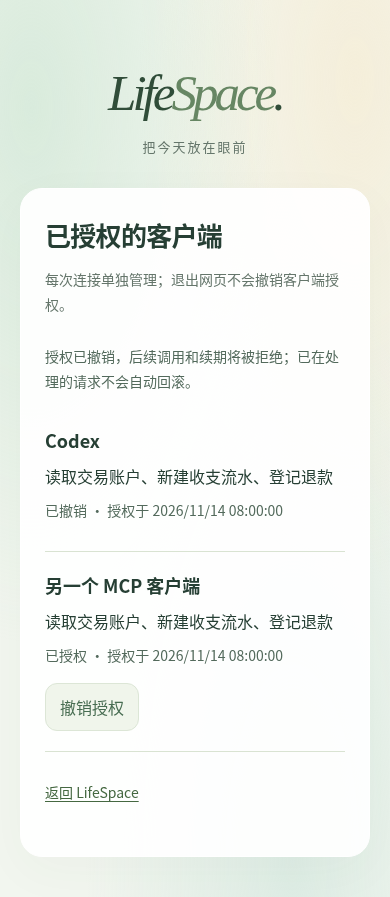
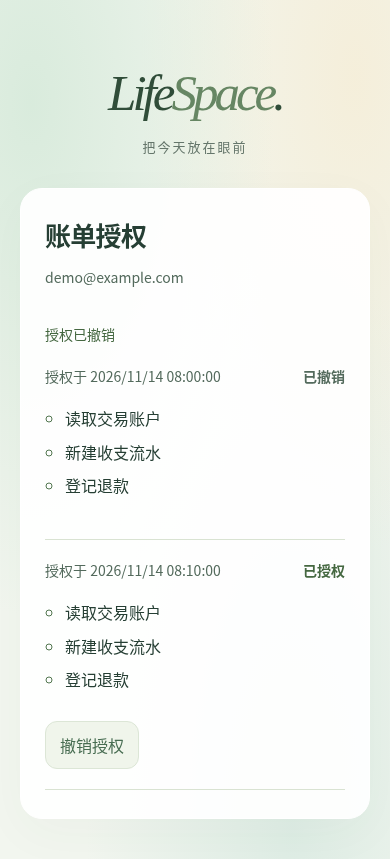
refactor: simplify OAuth grant management (#193)

diff --git a/tests/browser/mcp-oauth.spec.ts b/tests/browser/mcp-oauth.spec.ts
@@ -63,33 +63,38 @@ test('拒绝可独立提交；客户端资料不出现在授权表单', async ({
   expect(decision).toBe('deny')
 })
 
-test('授权管理展示独立连接，确认撤销并提供结果与在途边界', async ({ page }) => {
-  await page.setViewportSize({ width: 390, height: 844 })
+for (const width of [1440, 390]) test(`${width}px 授权管理以权限、时间和状态区分记录并确认撤销`, async ({ page }) => {
+  await page.setViewportSize({ width, height: 844 })
   const grant = { id: '00000000-0000-4000-8000-000000000002', clientId: 'https://client.example.invalid/metadata.json', clientName: 'Codex', scopes: mcpScopes, createdAt: '2026-11-14T00:00:00Z', expiresAt: '2099-01-01T00:00:00Z', revokedAt: null }
-  const second = { ...grant, id: '00000000-0000-4000-8000-000000000003', clientName: '另一个 MCP 客户端' }
+  const second = { ...grant, id: '00000000-0000-4000-8000-000000000003', clientName: '另一个 MCP 客户端', createdAt: '2026-11-14T00:10:00Z' }
   await page.route('**/api/oauth/grants', route => route.fulfill({ json: { grants: [grant, second], nextCursor: null } }))
   let revoked = ''
   await page.route('**/api/oauth/grants/revoke', route => { revoked = route.request().postDataJSON().id; return route.fulfill({ json: { revoked: true } }) })
   await page.goto('/oauth/grants')
-  await expect(page.getByRole('heading', { name: '已授权的客户端' })).toBeVisible()
-  const revokeFirst = page.getByRole('button', { name: /^撤销 Codex / })
+  await expect(page.getByRole('heading', { name: '账单授权' })).toBeVisible()
+  const panel = page.locator('.mcp-authorization')
+  await expect(panel).not.toContainText('Codex')
+  await expect(panel).not.toContainText('另一个 MCP 客户端')
+  await expect(panel).not.toContainText('client.example.invalid')
+  await expect(panel.locator('a')).toHaveCount(0)
+  const records = page.locator('.mcp-grants > li')
+  const revokeFirst = records.nth(0).getByRole('button', { name: /^撤销授权/ })
   await revokeFirst.click()
-  await expect(page.getByText('此连接需要重新征得你的同意', { exact: false })).toBeVisible()
   await expect(page.getByRole('button', { name: '确认撤销' })).toBeFocused()
   await page.getByRole('button', { name: '保留授权' }).click()
   await expect(revokeFirst).toBeFocused()
   await page.keyboard.press('Enter')
   await expect(page.getByRole('button', { name: '确认撤销' })).toBeFocused()
   await page.getByRole('button', { name: '确认撤销' }).click()
-  await expect(page.getByRole('status')).toContainText('后续调用和续期将被拒绝')
+  await expect(page.getByRole('status')).toContainText('授权已撤销')
   await expect(page.getByRole('status')).toBeFocused()
   expect(revoked).toBe(grant.id)
   await expect(revokeFirst).toHaveCount(0)
-  const revokeSecond = page.getByRole('button', { name: /^撤销 另一个 MCP 客户端 / })
+  const revokeSecond = records.nth(1).getByRole('button', { name: /^撤销授权/ })
   await revokeSecond.click()
   await page.getByRole('button', { name: '保留授权' }).click()
   await expect(revokeSecond).toBeFocused()
-  await page.screenshot({ path: '.cache/mcp-grants-mobile.png', fullPage: true })
+  await page.screenshot({ path: `.cache/mcp-grants-${width}.png`, fullPage: true })
   expect(await page.evaluate(() => document.documentElement.scrollWidth <= innerWidth)).toBe(true)
 })
 
@@ -100,12 +105,12 @@ test('授权管理空状态、加载失败和撤销失败均可恢复', async ({
   await expect(page.getByRole('alert')).toContainText('暂时无法读取授权')
   failed = false
   await page.getByRole('button', { name: '刷新授权' }).click()
-  await expect(page.getByText('还没有授权客户端', { exact: false })).toBeVisible()
+  await expect(page.getByText('暂无账单授权', { exact: true })).toBeVisible()
   await page.route('**/api/oauth/grants', route => route.fulfill({ json: { grants: [{ id: '00000000-0000-4000-8000-000000000002', clientId: 'client-test', clientName: 'Codex', scopes: [mcpScopes[0]], createdAt: '2026-11-14T00:00:00Z', expiresAt: '2099-01-01T00:00:00Z', revokedAt: null }], nextCursor: null } }))
   let revokeFails = true
   await page.route('**/api/oauth/grants/revoke', route => route.fulfill(revokeFails ? { status: 503, json: {} } : { json: { revoked: true } }))
   await page.reload()
-  await page.getByRole('button', { name: /^撤销 / }).click()
+  await page.getByRole('button', { name: /^撤销授权/ }).click()
   await page.getByRole('button', { name: '确认撤销' }).click()
   await expect(page.getByRole('alert')).toContainText('撤销结果未确认')
   await expect(page.getByRole('alert')).toBeFocused()

diff --git a/src/auth/McpAuthorization.tsx b/src/auth/McpAuthorization.tsx
@@ -100,7 +100,7 @@ export function McpAuthorization() {
 }
 
 export function McpGrants() {
-  const { ownerId, signal } = useVerifiedIdentity()
+  const { ownerId, email, signal } = useVerifiedIdentity()
   const [grants, setGrants] = useState<z.infer<typeof grantsSchema>['grants']>()
   const [error, setError] = useState('')
   const [message, setMessage] = useState('')
@@ -154,34 +154,35 @@ export function McpGrants() {
       if (!signal.aborted) {
         setGrants(current => current?.map(grant => grant.id === id ? { ...grant, revokedAt: new Date().toISOString() } : grant))
         setConfirming(undefined)
-        setMessage('授权已撤销，后续调用和续期将被拒绝；已在处理的请求不会自动回滚。')
+        setMessage('授权已撤销')
       }
     } catch { if (!signal.aborted) setError('撤销结果未确认，请刷新核对后重试。') }
     finally { pending.current = false; setBusy(false) }
   }
   return <AuthLayout title="客户端授权管理">
     <div className="mcp-authorization">
-      <h1 id="page-title" tabIndex={-1}>已授权的客户端</h1>
-      <p className="auth-subtitle">每次连接单独管理；退出网页不会撤销客户端授权。</p>
+      <h1 id="page-title" tabIndex={-1}>账单授权</h1>
+      <p className="mcp-account">{email}</p>
       {error && <p className="auth-banner" role="alert" tabIndex={-1} ref={errorElement}>{error} <button type="button" className="auth-link" onClick={() => setRevision(value => value + 1)}>刷新授权</button></p>}
-      <p role="status" className="mcp-note" tabIndex={-1} ref={resultElement}>{message}</p>
+      <p role="status" className="mcp-grant-result" tabIndex={-1} ref={resultElement}>{message}</p>
       {!grants && !error && <p>正在读取授权…</p>}
-      {grants?.length === 0 && <p className="mcp-empty">还没有授权客户端。从 MCP 客户端连接 LifeSpace 后，可在这里管理。</p>}
-      {grants && <ul className="mcp-grants">{grants.map(grant => {
+      {grants?.length === 0 && <p className="mcp-empty">暂无账单授权</p>}
+      {grants && <ul className="mcp-grants" role="list">{grants.map(grant => {
         const active = !grant.revokedAt && Date.parse(grant.expiresAt) > Date.now()
+        const created = new Date(grant.createdAt).toLocaleString('zh-CN')
         return <li key={grant.id}>
-          <h2>{grant.clientName || '未命名客户端'}</h2>
-          <p>{grant.scopes.map(scope => mcpScopeLabels[scope].name).join('、')}</p>
-          <p className="mcp-note">{grant.revokedAt ? '已撤销' : !active ? '已到期' : '已授权'} · 授权于 {new Date(grant.createdAt).toLocaleString('zh-CN')}</p>
+          <div className="mcp-grant-header">
+            <span className="mcp-note">授权于 <time dateTime={grant.createdAt}>{created}</time></span>
+            <span className={`mcp-grant-state${active ? ' is-active' : ''}`}>{grant.revokedAt ? '已撤销' : !active ? '已到期' : '已授权'}</span>
+          </div>
+          <ul className="mcp-grant-scopes" id={`scopes-${grant.id}`}>{grant.scopes.map(scope => <li key={scope}>{mcpScopeLabels[scope].name}</li>)}</ul>
           {active && (confirming === grant.id ? <div className="mcp-revoke-confirm">
-            <p>撤销后，此连接需要重新征得你的同意。</p>
             <button className="auth-secondary" type="button" disabled={busy} ref={confirmButton} onClick={() => void revoke(grant.id)}>{busy ? '正在撤销…' : '确认撤销'}</button>
             <button className="auth-link" type="button" disabled={busy} onClick={() => setConfirming(undefined)}>保留授权</button>
-          </div> : <button className="auth-secondary" type="button" disabled={busy} ref={node => { if (node) revokeButtons.current.set(grant.id, node); else revokeButtons.current.delete(grant.id) }} aria-label={`撤销 ${grant.clientName || '未命名客户端'} 于 ${new Date(grant.createdAt).toLocaleString('zh-CN')} 的授权`} onClick={() => setConfirming(grant.id)}>撤销授权</button>)}
+          </div> : <button className="auth-secondary" type="button" disabled={busy} ref={node => { if (node) revokeButtons.current.set(grant.id, node); else revokeButtons.current.delete(grant.id) }} aria-label={`撤销授权，${created}`} aria-describedby={`scopes-${grant.id}`} onClick={() => setConfirming(grant.id)}>撤销授权</button>)}
         </li>
       })}</ul>}
       {cursor && <button type="button" className="auth-secondary" disabled={busy} onClick={() => void loadMore()}>加载更早的授权</button>}
-      <p className="mcp-footer"><a href="/">返回 LifeSpace</a></p>
     </div>
   </AuthLayout>
 }

diff --git a/src/auth/mcp-authorization.css b/src/auth/mcp-authorization.css
@@ -1,5 +1,4 @@
 .mcp-authorization { overflow-wrap:anywhere; }
-.mcp-authorization h2 { font-size:1.125rem;line-height:1.5;margin:1.75rem 0 .5rem; }
 .mcp-authorization p { line-height:1.75; }
 .mcp-note { color:#536a5c;font-size:.875rem; }
 .mcp-account { color:#536a5c;font-size:.875rem;margin-block:.75rem 2rem; }
@@ -15,13 +14,18 @@
 .mcp-permissions:disabled label { cursor:default;opacity:.65; }
 .mcp-selection { display:flex;flex-wrap:wrap;justify-content:space-between;gap:.5rem;color:#536a5c;font-size:.875rem;margin-block:0 1.25rem; }
 .mcp-deny { display:block;inline-size:100%;min-block-size:3rem;margin-block-start:.5rem;font-size:.875rem; }
-.mcp-footer { margin-block:1.75rem 0;font-size:.875rem; }
-.mcp-footer a { color:#456841;display:inline-block;min-block-size:2rem;text-underline-offset:.2em; }
 .mcp-grants { margin:0;padding:0;list-style:none; }
-.mcp-grants li { padding-block:1.25rem;border-block-end:1px solid #d9e3d2; }
-.mcp-grants h2 { margin-block:0 .5rem; }
-.mcp-grants p { margin-block:.5rem; }
+.mcp-grants>li { padding-block:1.25rem;border-block-end:1px solid #d9e3d2; }
+.mcp-grants>li:first-child { padding-block-start:0; }
+.mcp-grant-header { display:flex;flex-wrap:wrap;justify-content:space-between;align-items:baseline;gap:.5rem; }
+.mcp-grant-state { color:#536a5c;font-size:.875rem;font-weight:600; }
+.mcp-grant-state.is-active { color:#456841; }
+.mcp-grant-scopes { padding-inline-start:1.25rem;margin-block:1rem; }
+.mcp-grant-scopes li { padding-block:.25rem;line-height:1.6; }
+.mcp-grant-scopes li::marker { color:#52764f; }
+.mcp-grant-result { color:#456841;font-size:.875rem;margin-block:0 1.25rem; }
+.mcp-grant-result:empty { margin:0; }
 .mcp-grants .auth-secondary { width:auto;min-block-size:3rem;margin-block-start:.5rem; }
 .mcp-revoke-confirm .auth-link { margin-inline-start:1rem;min-block-size:3rem; }
 .mcp-empty { padding-block:1.25rem; }
-@media (max-width:680px) { .mcp-authorization h1 { text-wrap:balance; }.mcp-footer a { min-block-size:3rem; } }
+@media (max-width:680px) { .mcp-authorization h1 { text-wrap:balance; } }

diff --git a/docs/qa-mcp-oauth.md b/docs/qa-mcp-oauth.md
@@ -26,10 +26,11 @@
 
 本次是既有认证界面的新增状态，沿用 `AuthLayout`、字体、配色、控件和响应式规则，未改原登录、标题、导航及账单页面。架构 SVG 并非 UI 原型。没有新增视觉风格或修改 DESIGN.md；已有 PRODUCT.md 的历史账单描述不作为此次业务需求。截图由本分支 Playwright 用合成用户/客户端生成，桌面/手机授权页展示用户选择写入权限后的状态。
 
-用户明确要求删除整个客户端信息区块，包括名称、域名/链接、回调地址和说明。当前授权页只保留账户、三项权限、选中数量、简短有效期和授权/拒绝操作，管理页移除原始客户端 URL。权限行以原生复选框、可点击标签及选中背景引导，按钮直接说明“授权所选权限”；说明与控件名称分开关联。使用 Modern Web Guidance 的 forms、checkbox、accessibility 指南及 impeccable distill/polish 核对；授权、原登录和共享外围布局共 39 项浏览器正常退出通过，类型/构建通过，detector 返回 `[]`，桌面/手机截图已同步并看图。预览和截图仍使用合成数据，真实客户端互操作及用户界面验收仍待完成。
+用户明确要求删除整个客户端信息区块，包括名称、域名/链接、回调地址和说明。当前授权页只保留账户、三项权限、选中数量、简短有效期和授权/拒绝操作。管理页同步删除客户端名称、原始 URL、说明段落和页脚链接，以授权时间、权限列表、状态和撤销/保留按钮组织记录；成功反馈仅为“授权已撤销”。权限行以原生复选框、可点击标签及选中背景引导，按钮直接说明“授权所选权限”；说明与控件名称分开关联。使用 Modern Web Guidance 的 forms、checkbox、accessibility 指南及 impeccable distill/polish 核对；首轮精简的授权、原登录和共享外围布局共 39 项浏览器正常退出通过，管理页补齐桌面/手机后相关 8 项浏览器通过，类型/构建通过，detector 返回 `[]`，截图已同步并看图。预览和截图仍使用合成数据，真实客户端互操作及用户界面验收仍待完成。
 
 - [桌面授权页](design/mcp-oauth-consent-desktop.png)
 - [手机授权页](design/mcp-oauth-consent-mobile.png)
+- [桌面授权管理撤销后](design/mcp-oauth-grants-desktop.png)
 - [手机授权管理撤销后](design/mcp-oauth-grants-mobile.png)
 
 ## 真实平台与待验收

diff --git a/docs/mcp-oauth-operations.md b/docs/mcp-oauth-operations.md
@@ -4,7 +4,7 @@
 
 ## 客户端与用户
 
-标准地址为 `https://lifespace.onepeace.cc.cd/api/agent/mcp`。无凭据请求返回 401，`WWW-Authenticate` 指向 `/.well-known/oauth-protected-resource/api/agent/mcp`；资源 metadata 指向同源 `/.well-known/oauth-authorization-server`。客户端应用已有预注册信息时优先使用；其次可通过 HTTPS Client ID Metadata Document 识别，文档 URL、redirect URI、客户端鉴权由官方库验证。按用户确认的界面范围，同意页聚焦当前账户、权限选择和授权/拒绝操作，移除客户端名称/域名区块、回调地址及其说明；服务端客户端识别和回调校验仍执行。授权管理以名称和授权时间区分连接，不显示原始客户端 URL。
+标准地址为 `https://lifespace.onepeace.cc.cd/api/agent/mcp`。无凭据请求返回 401，`WWW-Authenticate` 指向 `/.well-known/oauth-protected-resource/api/agent/mcp`；资源 metadata 指向同源 `/.well-known/oauth-authorization-server`。客户端应用已有预注册信息时优先使用；其次可通过 HTTPS Client ID Metadata Document 识别，文档 URL、redirect URI、客户端鉴权由官方库验证。按用户确认的界面范围，同意页聚焦当前账户、权限选择和授权/拒绝操作，移除客户端名称/域名区块、回调地址及其说明；服务端客户端识别和回调校验仍执行。授权管理以授权时间、权限和状态区分记录，不显示客户端名称、原始 URL 或说明段落；每条记录的撤销仍绑定其独立授权 ID。
 
 授权码流程必须使用 PKCE S256。客户端完成 Supabase 登录、逐请求准入与明确同意后，只获得 MCP 授权码及专用 access/refresh token。网页登录的会话凭据不会出现在回调、MCP 配置或客户端响应里。同意页默认勾选客户端请求的权限；没有 scope 时默认只读，用户可选择其他三项已公布权限。拒绝通过经过验证的回调返回 `access_denied`、state 和 issuer。
 
